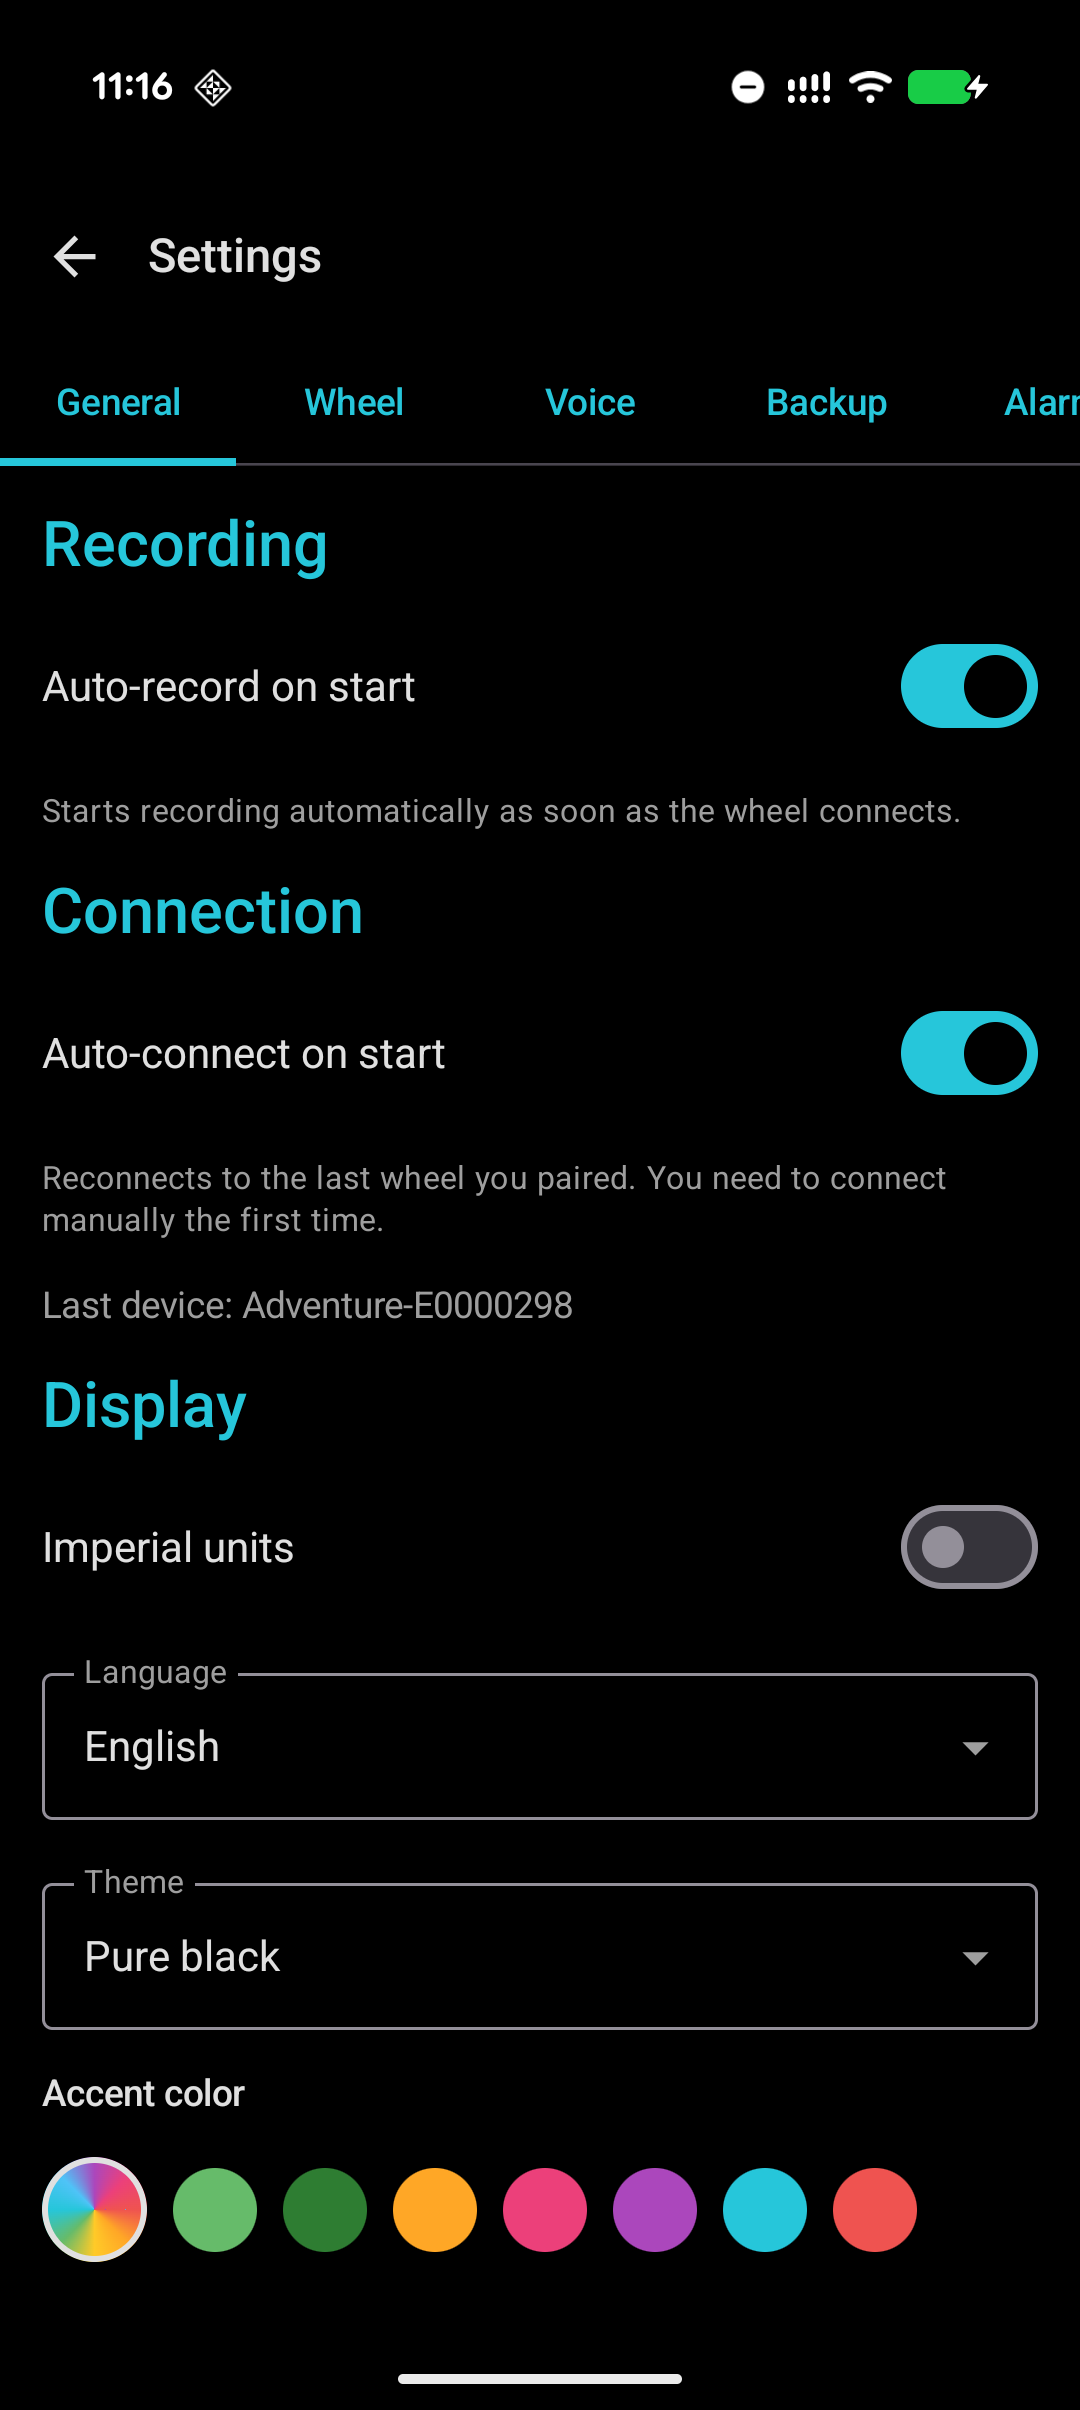
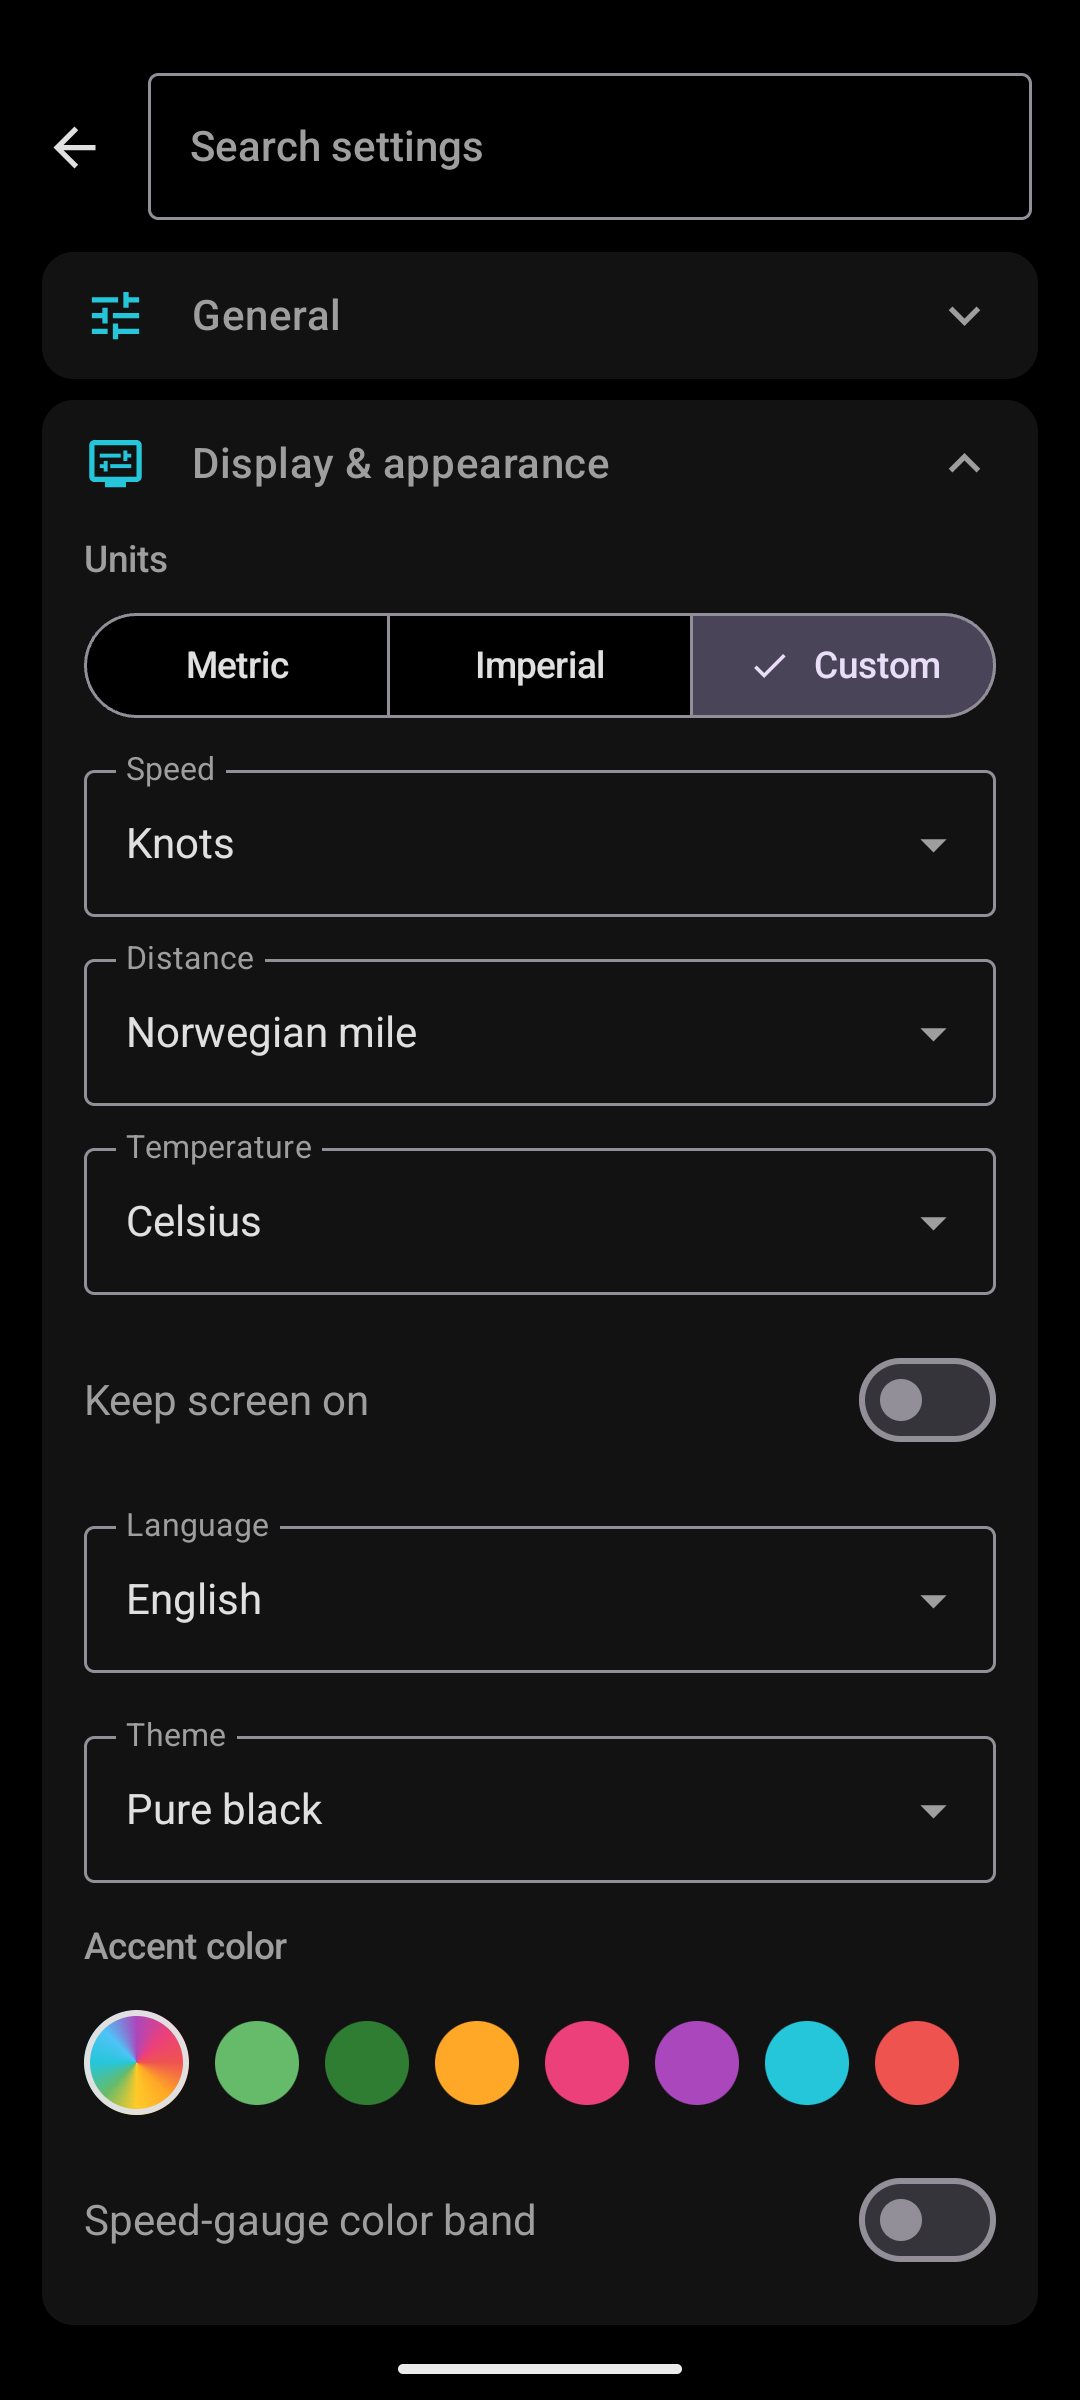
Release 0.8.10: route palette refresh + screenshot overhaul
Navigator palette swapped to pastels with a gold drag-preview, more
readable across the satellite + vector basemaps. Preview line keeps
parity with the route line during zoom + pan. First-render auto-fit
no longer leaves the map at world-zoom after a long permission dialog.

Docs/index.html and README refreshed with the new gallery (dashboard,
navigator, studio, compare, transparent export, satellite navigator,
settings) plus a dedicated Wear-OS strip (dial, telemetry detail,
turn arrow, arrival flag).

diff --git a/docs/index.html b/docs/index.html
@@ -4,7 +4,7 @@
 <meta charset="UTF-8">
 <meta name="viewport" content="width=device-width, initial-scale=1">
 <title>EUC Planet</title>
-<meta name="description" content="No-nonsense, free, open-source EUC riding app: live telemetry, smart alarms, Wear OS watch dial. Tested on InMotion V14 and P6; preview support for KingSong, Begode, Veteran, Ninebot and more.">
+<meta name="description" content="No-nonsense, free, open-source EUC riding app: live telemetry, smart alarms, turn-by-turn navigation, video recorder with on-screen telemetry overlay, Wear OS dial. Tested on InMotion V14 and P6; preview support for KingSong, Begode, Veteran, Ninebot and more.">
 <link rel="icon" type="image/svg+xml" href="favicon.svg">
 <style>
   body {
@@ -84,8 +84,28 @@
   }
   .gallery-thumbs {
     display: grid;
-    grid-template-columns: repeat(6, 1fr);
+    grid-template-columns: repeat(4, 1fr);
     gap: 8px;
+  }
+  .gallery-wear {
+    display: grid;
+    grid-template-columns: repeat(4, 1fr);
+    gap: 12px;
+    max-width: 540px;
+    margin: 0 auto;
+  }
+  .gallery-wear a { display: block; line-height: 0; }
+  .gallery-wear img {
+    width: 100%;
+    height: auto;
+    border-radius: 50%;
+    border: 1px solid #30363d;
+    background: #000;
+    transition: transform 120ms ease, border-color 120ms ease;
+  }
+  .gallery-wear a:hover img {
+    transform: translateY(-2px);
+    border-color: #58a6ff;
   }
   .gallery-featured a, .gallery-thumbs a { display: block; line-height: 0; }
   .gallery-featured img, .gallery-thumbs img {
@@ -121,7 +141,7 @@
   </header>
 
   <section>
-    <p>Free, open source, no ads, no tracking, no upselling, no subscriptions, no telemetry phoned home, no nonsense. Tested on the <strong>InMotion V14</strong> and <strong>P6</strong>, with preliminary V12 support and preview adapters for KingSong, Veteran, Begode (including high-voltage wheels), the InMotion V1 family, and Ninebot. Wear OS companion in the box.</p>
+    <p>Free, open source, no ads, no tracking, no upselling, no subscriptions, no telemetry phoned home, no nonsense. Live telemetry, turn-by-turn navigation, an on-screen telemetry overlay for video recording, a Wear OS dial, and a trip recorder, all in the same app. Tested on the <strong>InMotion V14</strong> and <strong>P6</strong>, with preliminary V12 support and preview adapters for KingSong, Veteran, Begode (including high-voltage wheels), the InMotion V1 family, and Ninebot.</p>
     <div class="links secondary-row">
       <a class="btn blue" href="https://ideas.ried.no/euc-planet">Share an idea</a>
       <a class="btn blue" href="https://eucviewer.ried.no">Trip viewer</a>
@@ -132,24 +152,40 @@
   <section>
     <h2>A look inside</h2>
     <div class="gallery-featured">
-      <a href="screenshots/main.png"><img src="screenshots/main.png" alt="Dashboard"></a>
-      <a href="screenshots/customalarms.png"><img src="screenshots/customalarms.png" alt="Custom alarms"></a>
-      <a href="screenshots/trips.png"><img src="screenshots/trips.png" alt="Trip list"></a>
-      <a href="screenshots/tripdetails.png"><img src="screenshots/tripdetails.png" alt="Trip detail"></a>
+      <a href="screenshots/dashboard.png"><img src="screenshots/dashboard.png" alt="Dashboard with speed dial and live tiles"></a>
+      <a href="screenshots/navigator.png"><img src="screenshots/navigator.png" alt="Turn-by-turn navigator with multi-stop route"></a>
+      <a href="screenshots/studio.png"><img src="screenshots/studio.png" alt="Overlay Studio — video recorder with telemetry"></a>
+      <a href="screenshots/compare.png"><img src="screenshots/compare.png" alt="Compare live data against past rides"></a>
     </div>
     <div class="gallery-thumbs">
-      <a href="screenshots/historicalcurrent.png"><img src="screenshots/historicalcurrent.png" alt="Historical graph"></a>
-      <a href="screenshots/voicesettings.png"><img src="screenshots/voicesettings.png" alt="Voice settings"></a>
-      <a href="screenshots/autolights.png"><img src="screenshots/autolights.png" alt="Auto lights"></a>
-      <a href="screenshots/autovolume.png"><img src="screenshots/autovolume.png" alt="Auto volume"></a>
-      <a href="screenshots/speedsettings.png"><img src="screenshots/speedsettings.png" alt="Speed settings"></a>
-      <a href="screenshots/settings.png"><img src="screenshots/settings.png" alt="Settings"></a>
+      <a href="screenshots/trips.png"><img src="screenshots/trips.png" alt="Trip list"></a>
+      <a href="screenshots/studio-export.png"><img src="screenshots/studio-export.png" alt="Studio transparent-overlay export"></a>
+      <a href="screenshots/navigator-sat.png"><img src="screenshots/navigator-sat.png" alt="Navigator over satellite imagery"></a>
+      <a href="screenshots/settings.png"><img src="screenshots/settings.png" alt="Custom units, themes and accent colors"></a>
+    </div>
+  </section>
+
+  <section>
+    <h2>On the wrist</h2>
+    <div class="gallery-wear">
+      <a href="screenshots/wear-dash.png"><img src="screenshots/wear-dash.png" alt="Wear OS speed dial"></a>
+      <a href="screenshots/wear-details.png"><img src="screenshots/wear-details.png" alt="Wear OS telemetry detail"></a>
+      <a href="screenshots/wear-navigation.png"><img src="screenshots/wear-navigation.png" alt="Wear OS turn arrow"></a>
+      <a href="screenshots/wear-goal.png"><img src="screenshots/wear-goal.png" alt="Wear OS goal reached flag"></a>
     </div>
   </section>
 
   <section>
     <h2>Built different</h2>
     <div class="features">
+      <div class="card">
+        <h3>Turn-by-turn navigator</h3>
+        <p>Multi-stop route builder with live guidance, off-route reroute, treasure-hunt mode, and an external-routing-friendly OSRM endpoint. Walk, bike, car, or straight-line — pick a mode, drop your stops, ride.</p>
+      </div>
+      <div class="card">
+        <h3>Overlay Studio</h3>
+        <p>Record video from the phone camera with a tunable on-screen telemetry overlay: speed dial, battery, PWM, GPS map, custom layout. Export plain MP4 or transparent overlay for editing on top of footage from another camera.</p>
+      </div>
       <div class="card">
         <h3>Modern &amp; fast</h3>
         <p>Pure black dark theme, low latency, built for glances while riding.</p>
@@ -167,8 +203,12 @@
         <p>Spoken reports and thresholds for speed, battery, PWM. In your language.</p>
       </div>
       <div class="card">
-        <h3>Trip recording</h3>
-        <p>GPS + telemetry exported as DarknessBot-compatible CSV.</p>
+        <h3>Trip recording &amp; compare</h3>
+        <p>GPS + telemetry exported as DarknessBot-compatible CSV. Overlay any past ride on the dashboard chart to compare speed, current, temperature side by side.</p>
+      </div>
+      <div class="card">
+        <h3>External GPS support</h3>
+        <p>Pair a RaceBox or similar BLE GPS for centimetre-class speed and altitude without draining the phone radio.</p>
       </div>
       <div class="card">
         <h3>Multi-wheel</h3>
@@ -176,11 +216,7 @@
       </div>
       <div class="card">
         <h3>Wear OS companion</h3>
-        <p>Watch app for Galaxy Watch Ultra and other Wear OS 5+ watches. Phone holds the link, watch shows live speed, batteries and controls.</p>
-      </div>
-      <div class="card">
-        <h3>Developer options</h3>
-        <p>Service Mode records every BLE byte, fires hand-typed commands, inspects each byte offset live, and attaches a wheel-state snapshot to a bug report. Tap the dashboard version, then tap-and-hold the About logo. <a href="service.html">How it works</a>.</p>
+        <p>Watch app for Galaxy Watch Ultra and other Wear OS 5+ watches. Phone holds the link, watch shows live speed, batteries, navigation cues, and quick controls (horn / light / voice).</p>
       </div>
     </div>
   </section>

diff --git a/app/src/main/java/com/eried/eucplanet/ui/navigator/MapHtml.kt b/app/src/main/java/com/eried/eucplanet/ui/navigator/MapHtml.kt
@@ -699,11 +699,11 @@ private const val ROUTE_BUILDER_HTML_1: String = """
 
 private const val ROUTE_BUILDER_HTML_2: String = """
   function colorFor(i, n){
-    // The colours assume the marker array INCLUDES passed stops at the
-    // head -- the caller filters / inspects passed at the marker site
-    // before deciding green vs orange / flag. This helper is the
-    // baseline orange.
-    return '#FFA726';
+    // The marker array INCLUDES passed stops at the head; callers filter
+    // / inspect passed at the marker site before deciding green vs
+    // inactive grey / flag. This helper is the baseline inactive grey
+    // -- light slate so it doesn't fight the gold preview chain.
+    return '#BDBDBD';
   }
 
   function iconFor(label, color){
@@ -811,11 +811,11 @@ private const val ROUTE_BUILDER_HTML_2: String = """
     var pts = active.map(function(w){ return [w.lat, w.lng]; });
     previewLineGeom = pts;
     previewLine = L.polyline(pts, {
-      color: '#FFA726',
+      color: '#FFCA28',
       weight: 5, opacity: 0.80,
       dashArray: '8,12', lineCap: 'round'
     }).addTo(map);
-    drawPreviewArrows(pts, '#FFA726');
+    drawPreviewArrows(pts, '#FFCA28');
   }
 
   // Travel-mode → polyline colour. Cool→warm activity gradient: each step up
@@ -833,10 +833,14 @@ private const val ROUTE_BUILDER_HTML_2: String = """
   // The Kotlin SegmentedButton icons mirror these exact colours so the chosen
   // mode chip visually previews the line that will be drawn.
   function routeColorFor(mode){
-    if (mode === 'CYCLING')  return '#E91E63';
-    if (mode === 'WALKING')  return '#03A9F4';
-    if (mode === 'STRAIGHT') return '#43A047';
-    if (mode === 'DRIVING')  return '#E53935';
+    // Lavender walk, teal bike, soft-orange car, sky-blue straight.
+    // Chosen for readability on Dark / Light / Satellite basemaps and
+    // clear separation from the gold preview chain (#FFCA28) + green
+    // next-stop (#66BB6A).
+    if (mode === 'CYCLING')  return '#26A69A';
+    if (mode === 'WALKING')  return '#7E57C2';
+    if (mode === 'STRAIGHT') return '#42A5F5';
+    if (mode === 'DRIVING')  return '#FB8C00';
     return accentColor;
   }
 
@@ -959,7 +963,7 @@ private const val ROUTE_BUILDER_HTML_2: String = """
       clearRouteArrows();
     }
     if (previewLineGeom){
-      drawPreviewArrows(previewLineGeom, '#FFA726');
+      drawPreviewArrows(previewLineGeom, '#FFCA28');
     } else {
       clearPreviewArrows();
     }
@@ -1004,7 +1008,7 @@ private const val ROUTE_BUILDER_HTML_2: String = """
     wps.forEach(function(w, i){
       var isPassed = !!w.passed;
       var isNext = navLocked && !isPassed && i === firstActiveIdx;
-      var stopColor = isNext ? '#66BB6A' : (isPassed ? '#8C8C90' : '#FFA726');
+      var stopColor = isNext ? '#66BB6A' : (isPassed ? '#757575' : '#BDBDBD');
       // Passed stops don't get a radius ring -- they're done and clutter
       // the map. Future stops get the dotted ring as before.
       if (!isPassed) {
@@ -1149,22 +1153,23 @@ private const val ROUTE_BUILDER_HTML_2: String = """
       clearPreview();
     }
 
-    if (fit){
+    // Fit on the native fit=true OR the first render that has data.
+    // The native LaunchedEffect collects mapRender only after pageReady,
+    // so the restore-time fit=true emission gets replaced by later
+    // fit=false bumps and the JS would otherwise sit at zoom 2 forever.
+    var wantFit = fit || (!hasInitialFit && (geom.length >= 2 || wps.length >= 1));
+    if (wantFit){
       var pts = (geom.length >= 2) ? geom : wps.map(function(w){ return [w.lat, w.lng]; });
-      console.log('RENDER fit applied pts=' + pts.length +
-        ' first=' + JSON.stringify(pts[0]) +
-        ' last=' + JSON.stringify(pts[pts.length - 1]));
       if (pts.length >= 2){
-        // maxZoom: 15 keeps the auto-fit from snapping to a building-level
-        // view on tight bounds (origin a few meters from the first stop)
-        // -- 17 was still too tight on short legs and made the map flash
-        // 'right on top of the rider' on first open.
         map.fitBounds(L.latLngBounds(pts).pad(0.25), { maxZoom: 15 });
+        hasInitialFit = true;
       } else if (pts.length === 1){
         map.setView(pts[0], 16);
+        hasInitialFit = true;
       }
     }
   };
+  var hasInitialFit = false;
 
   // Saved Home / Work places — always shown, drawn behind the stops.
   var placeMarkers = [];

diff --git a/app/src/main/java/com/eried/eucplanet/ui/navigator/RouteBuilderScreen.kt b/app/src/main/java/com/eried/eucplanet/ui/navigator/RouteBuilderScreen.kt
@@ -1464,15 +1464,15 @@ private fun BottomPanel(
                             // mode so the chip visually previews what the line
                             // on the map will look like. Keep in sync with
                             // routeColorFor() in MapHtml.kt.
-                            //   Walk     sky blue   #03A9F4
-                            //   Bike     magenta    #E91E63
-                            //   Drive    red        #E53935
-                            //   Straight green      #43A047
+                            //   Walk     lavender    #7E57C2
+                            //   Bike     teal        #26A69A
+                            //   Drive    soft orange #FB8C00
+                            //   Straight sky blue    #42A5F5
                             val modeColor = when (mode) {
-                                TravelMode.WALKING  -> Color(0xFF03A9F4)
-                                TravelMode.CYCLING  -> Color(0xFFE91E63)
-                                TravelMode.DRIVING  -> Color(0xFFE53935)
-                                TravelMode.STRAIGHT -> Color(0xFF43A047)
+                                TravelMode.WALKING  -> Color(0xFF7E57C2)
+                                TravelMode.CYCLING  -> Color(0xFF26A69A)
+                                TravelMode.DRIVING  -> Color(0xFFFB8C00)
+                                TravelMode.STRAIGHT -> Color(0xFF42A5F5)
                             }
                             SegmentedButton(
                                 selected = travelMode == mode,

diff --git a/docs/privacy.html b/docs/privacy.html
@@ -33,7 +33,7 @@
 <div class="container">
   <header>
     <h1>Privacy Policy</h1>
-    <p class="sub">EUC Planet Android app · Last updated 2026-04-19</p>
+    <p class="sub">EUC Planet Android app · Last updated 2026-05-25</p>
   </header>
 
   <p>EUC Planet is an open-source companion app for electric unicycles. It is published and maintained by Erwin Ried. This page describes what the app accesses on your device and what happens to that data.</p>
@@ -52,6 +52,7 @@
     <li><strong>Precise location (GPS)</strong> — only while a trip is being recorded or while the Recording screen is open, so the recorded CSV contains coordinates, altitude, and GPS speed. Location is <em>never</em> used for advertising, identification, or sent to any server by the app.</li>
     <li><strong>Notifications</strong> — to show the ongoing connection notification and deliver alarm alerts.</li>
     <li><strong>Foreground service</strong> — to keep the BLE connection and GPS tracking alive while the screen is off during a ride.</li>
+    <li><strong>Camera + microphone (opt-in)</strong> — only when you open <em>Overlay Studio</em> and start recording. The Studio is a self-contained video / photo recorder for capturing rides with a live telemetry overlay; the captured files land in your own device storage and the app never streams them anywhere.</li>
     <li><strong>Storage access (optional)</strong> — if you enable cloud sync, you pick a folder yourself through Android's file picker (Google Drive, OneDrive, Dropbox, local, etc.). The app only reads/writes inside that folder. You can revoke access at any time through Android settings.</li>
   </ul>
 
@@ -66,7 +67,8 @@
     <li>No account, no login, no email, no phone number.</li>
     <li>No analytics events, crash reports, or usage metrics sent off-device.</li>
     <li>No advertising identifiers.</li>
-    <li>No contact list, call log, SMS, camera, microphone, or photo access.</li>
+    <li>No contact list, call log, SMS, or photo-library access.</li>
+    <li>The camera and microphone are only ever opened from inside <em>Overlay Studio</em> while you have its recording screen open. Footage stays on your device.</li>
   </ul>
 
   <h2>Permissions explained</h2>
@@ -74,9 +76,10 @@
     <li><code>BLUETOOTH_SCAN</code>, <code>BLUETOOTH_CONNECT</code> — required to find and control the wheel. The scan is flagged <code>neverForLocation</code>.</li>
     <li><code>ACCESS_FINE_LOCATION</code>, <code>ACCESS_COARSE_LOCATION</code> — only used to record your position while a trip is being recorded.</li>
     <li><code>FOREGROUND_SERVICE</code>, <code>FOREGROUND_SERVICE_CONNECTED_DEVICE</code>, <code>FOREGROUND_SERVICE_LOCATION</code> — to keep the wheel connection and GPS running in the background while you ride.</li>
+    <li><code>CAMERA</code>, <code>RECORD_AUDIO</code> — only used by <em>Overlay Studio</em> while you have its recording screen open. Both prompts appear the first time you tap the Studio's record button and can be revoked at any time in Android Settings.</li>
     <li><code>POST_NOTIFICATIONS</code> — to show the connection status and alerts.</li>
     <li><code>VIBRATE</code> — for alarm haptic feedback.</li>
-    <li><code>INTERNET</code> — used only when you explicitly upload trip files to your chosen cloud provider through the Android sync stack.</li>
+    <li><code>INTERNET</code> — used only when you explicitly upload trip files to your chosen cloud provider through the Android sync stack, and when the in-app Navigator queries the OSRM routing endpoint to solve a turn-by-turn route. Routing requests contain only the start + stop coordinates you're solving for; no identifiers are attached.</li>
   </ul>
 
   <h2>Data retention and deletion</h2>

diff --git a/README.md b/README.md
@@ -6,7 +6,7 @@
 [![Telegram](https://img.shields.io/badge/Telegram-EUCPlanetApp-26A5E4?logo=telegram&logoColor=white)](https://t.me/EUCPlanetApp)
 [![Downloads](https://img.shields.io/github/downloads/eried/eucplanet/total)](https://github.com/eried/eucplanet/releases)
 
-An open-source Android companion app for **electric unicycles**, with a Wear OS companion for Galaxy Watch Ultra and other Wear OS 5+ watches.
+An open-source Android companion app for **electric unicycles**. Live telemetry, turn-by-turn navigator, on-screen telemetry overlay for video recording, and a Wear OS dial.
 
 Built because every other EUC app either asks for a monthly subscription, ships a crummy UI, loses connection, or locks useful features behind paywalls. This one is free, open source, no ads, no tracking, no upselling, no subscriptions, no telemetry phoned home, no nonsense.
 
@@ -32,9 +32,11 @@ Built because every other EUC app either asks for a monthly subscription, ships 
 
 ## Gallery
 
-<img src="docs/screenshots/main.png" width="22%" alt="Dashboard" /> <img src="docs/screenshots/customalarms.png" width="22%" alt="Custom alarms" /> <img src="docs/screenshots/trips.png" width="22%" alt="Historical graph" /> <img src="docs/screenshots/tripdetails.png" width="22%" alt="Trip detail" />
+<img src="docs/screenshots/dashboard.png" width="22%" alt="Dashboard" /> <img src="docs/screenshots/navigator.png" width="22%" alt="Turn-by-turn navigator" /> <img src="docs/screenshots/studio.png" width="22%" alt="Overlay Studio" /> <img src="docs/screenshots/compare.png" width="22%" alt="Compare" />
 
-<img src="docs/screenshots/historicalcurrent.png" width="14%" alt="Trip list" /> <img src="docs/screenshots/voicesettings.png" width="14%" alt="Voice settings" /> <img src="docs/screenshots/autolights.png" width="14%" alt="Auto lights" /> <img src="docs/screenshots/autovolume.png" width="14%" alt="Auto volume" /> <img src="docs/screenshots/speedsettings.png" width="14%" alt="Speed settings" /> <img src="docs/screenshots/settings.png" width="14%" alt="Settings" />
+<img src="docs/screenshots/trips.png" width="22%" alt="Trip list" /> <img src="docs/screenshots/studio-export.png" width="22%" alt="Studio transparent export" /> <img src="docs/screenshots/navigator-sat.png" width="22%" alt="Navigator over satellite" /> <img src="docs/screenshots/settings.png" width="22%" alt="Settings" />
+
+<img src="docs/screenshots/wear-dash.png" width="16%" alt="Wear OS dial" /> <img src="docs/screenshots/wear-details.png" width="16%" alt="Wear OS telemetry detail" /> <img src="docs/screenshots/wear-navigation.png" width="16%" alt="Wear OS turn arrow" /> <img src="docs/screenshots/wear-goal.png" width="16%" alt="Wear OS arrival flag" />
 
 ---
 
@@ -44,6 +46,15 @@ Built because every other EUC app either asks for a monthly subscription, ships 
 - Live speed, battery %, voltage, amps, temperature, PWM load, trip distance.
 - Tap any tile to jump to a historical graph.
 - Imperial or metric units.
+
+### Turn-by-turn navigator
+- Multi-stop route builder on a map (walk / bike / car / straight-line modes).
+- Live guidance with voice cues, off-route reroute, sticky GPS, and a Treasure Hunt proximity mode for unmarked destinations.
+- Optional Wear OS popup mirror so the next-turn arrow shows up on your wrist.
+
+### Overlay Studio
+- Records video (and stills) from the phone camera with a fully customisable on-screen telemetry overlay: data tiles, dial / bar gauges, rolling graphs, free text with `{speed}`-style variables, mini-map, badge, layered cameras.
+- Layout presets saved as `.json`. Export plain MP4 for the final clip or transparent overlay for compositing on top of footage shot with another camera.
 
 ### Wheel Control
 - Horn, light toggle, wheel lock, legal-mode speed cap, voice announcements, all one tap away.
@@ -72,7 +83,8 @@ Built because every other EUC app either asks for a monthly subscription, ships 
 ### Integrations
 - **Flic 2 buttons**: pair up to two buttons.
 - **Volume keys**: use the phone's physical volume up/down for extra shortcuts.
-- **Wear OS companion**: full-bleed speed dial, three batteries (wheel/phone/watch), accent and unit settings synced from the phone, horn + light remote controls. Tested on Galaxy Watch Ultra; works on any Wear OS 5+ watch.
+- **External GPS**: pair a RaceBox (or any name-prefix-matched BLE GPS) for centimetre-class speed + altitude without burning the phone radio. Falls back to phone GPS automatically.
+- **Wear OS companion**: full-bleed speed dial, three batteries (wheel/phone/watch), accent and unit settings synced from the phone, horn + light remote controls, navigation cue mirror. Tested on Galaxy Watch Ultra; works on any Wear OS 5+ watch.
 
 ---
 
@@ -81,6 +93,7 @@ Built because every other EUC app either asks for a monthly subscription, ships 
 - Android 10 (API 29) or newer.
 - A supported wheel (see the support-tier table at the top of this README). The V14 and P6 are the most thoroughly tested today; KingSong / Begode / Veteran / InMotion V1 / Ninebot wheels work in preview and need community testing to graduate to "verified".
 - Bluetooth + location permissions (location is required by Android for BLE scanning).
+- Camera + microphone permission (optional): only requested the first time you open Overlay Studio.
 - Wear OS companion (optional): Wear OS 5 or newer, paired through the Wear OS by Google app.
 
 ## Install